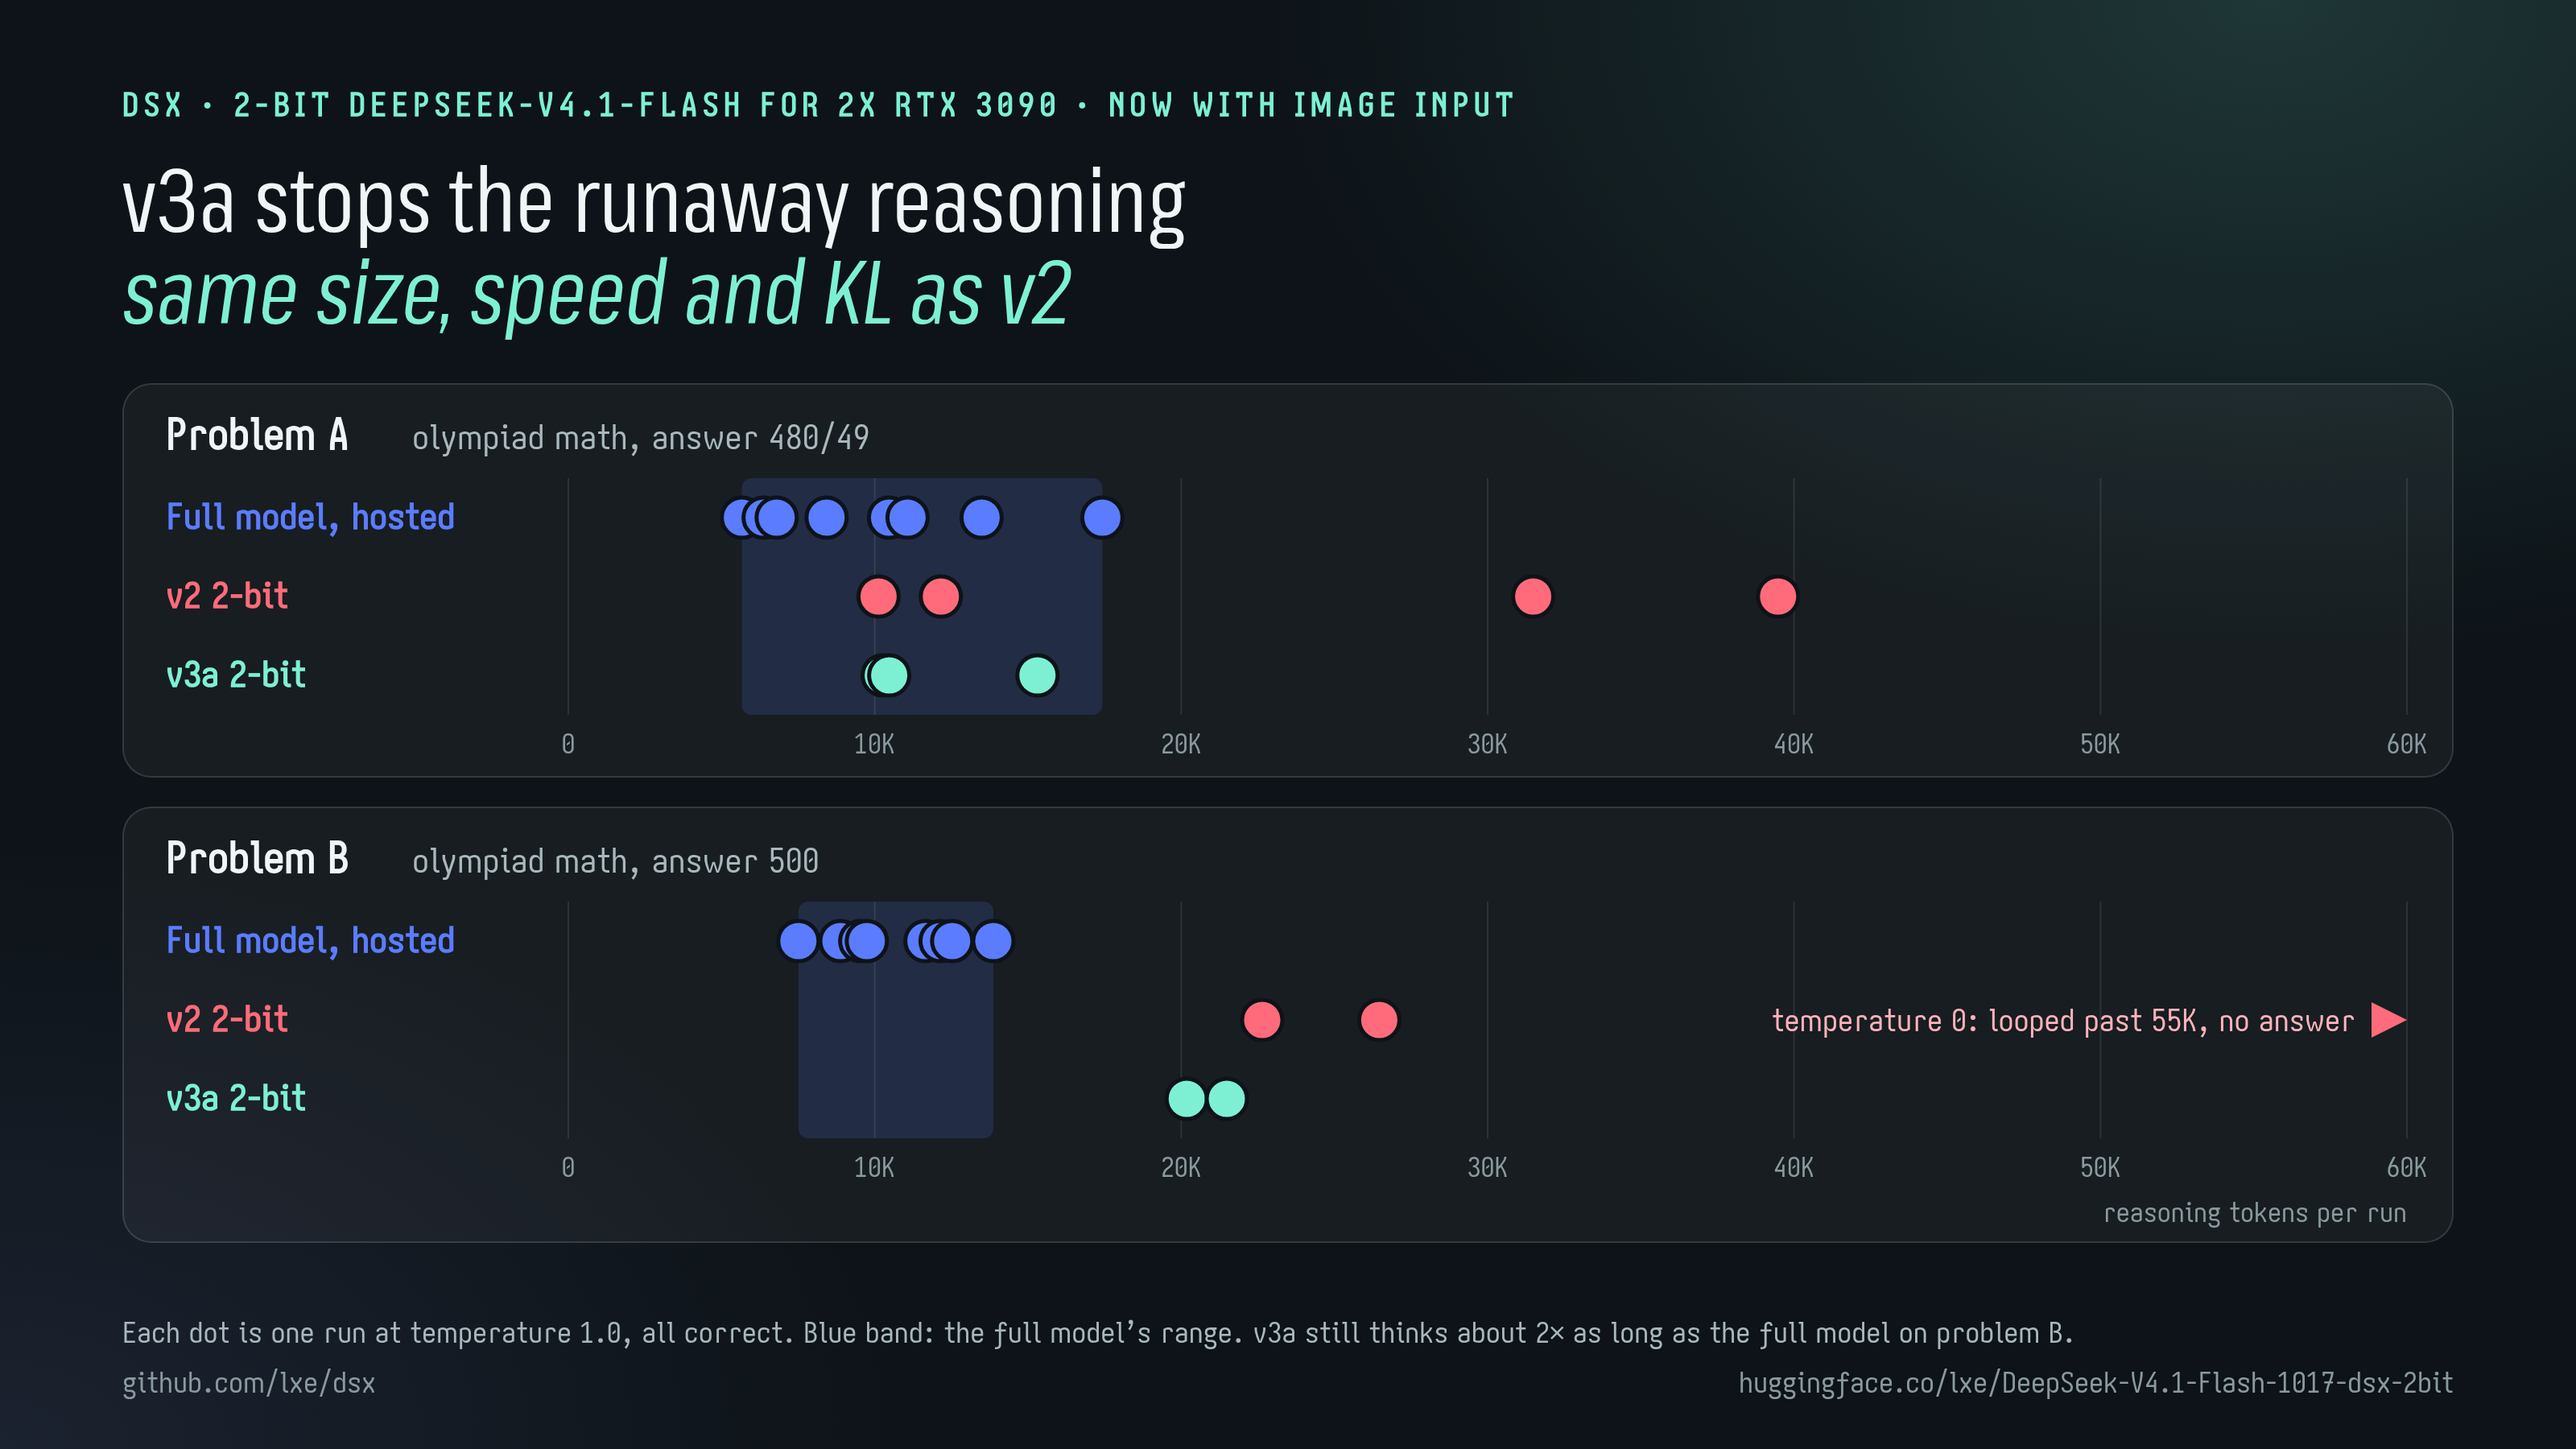
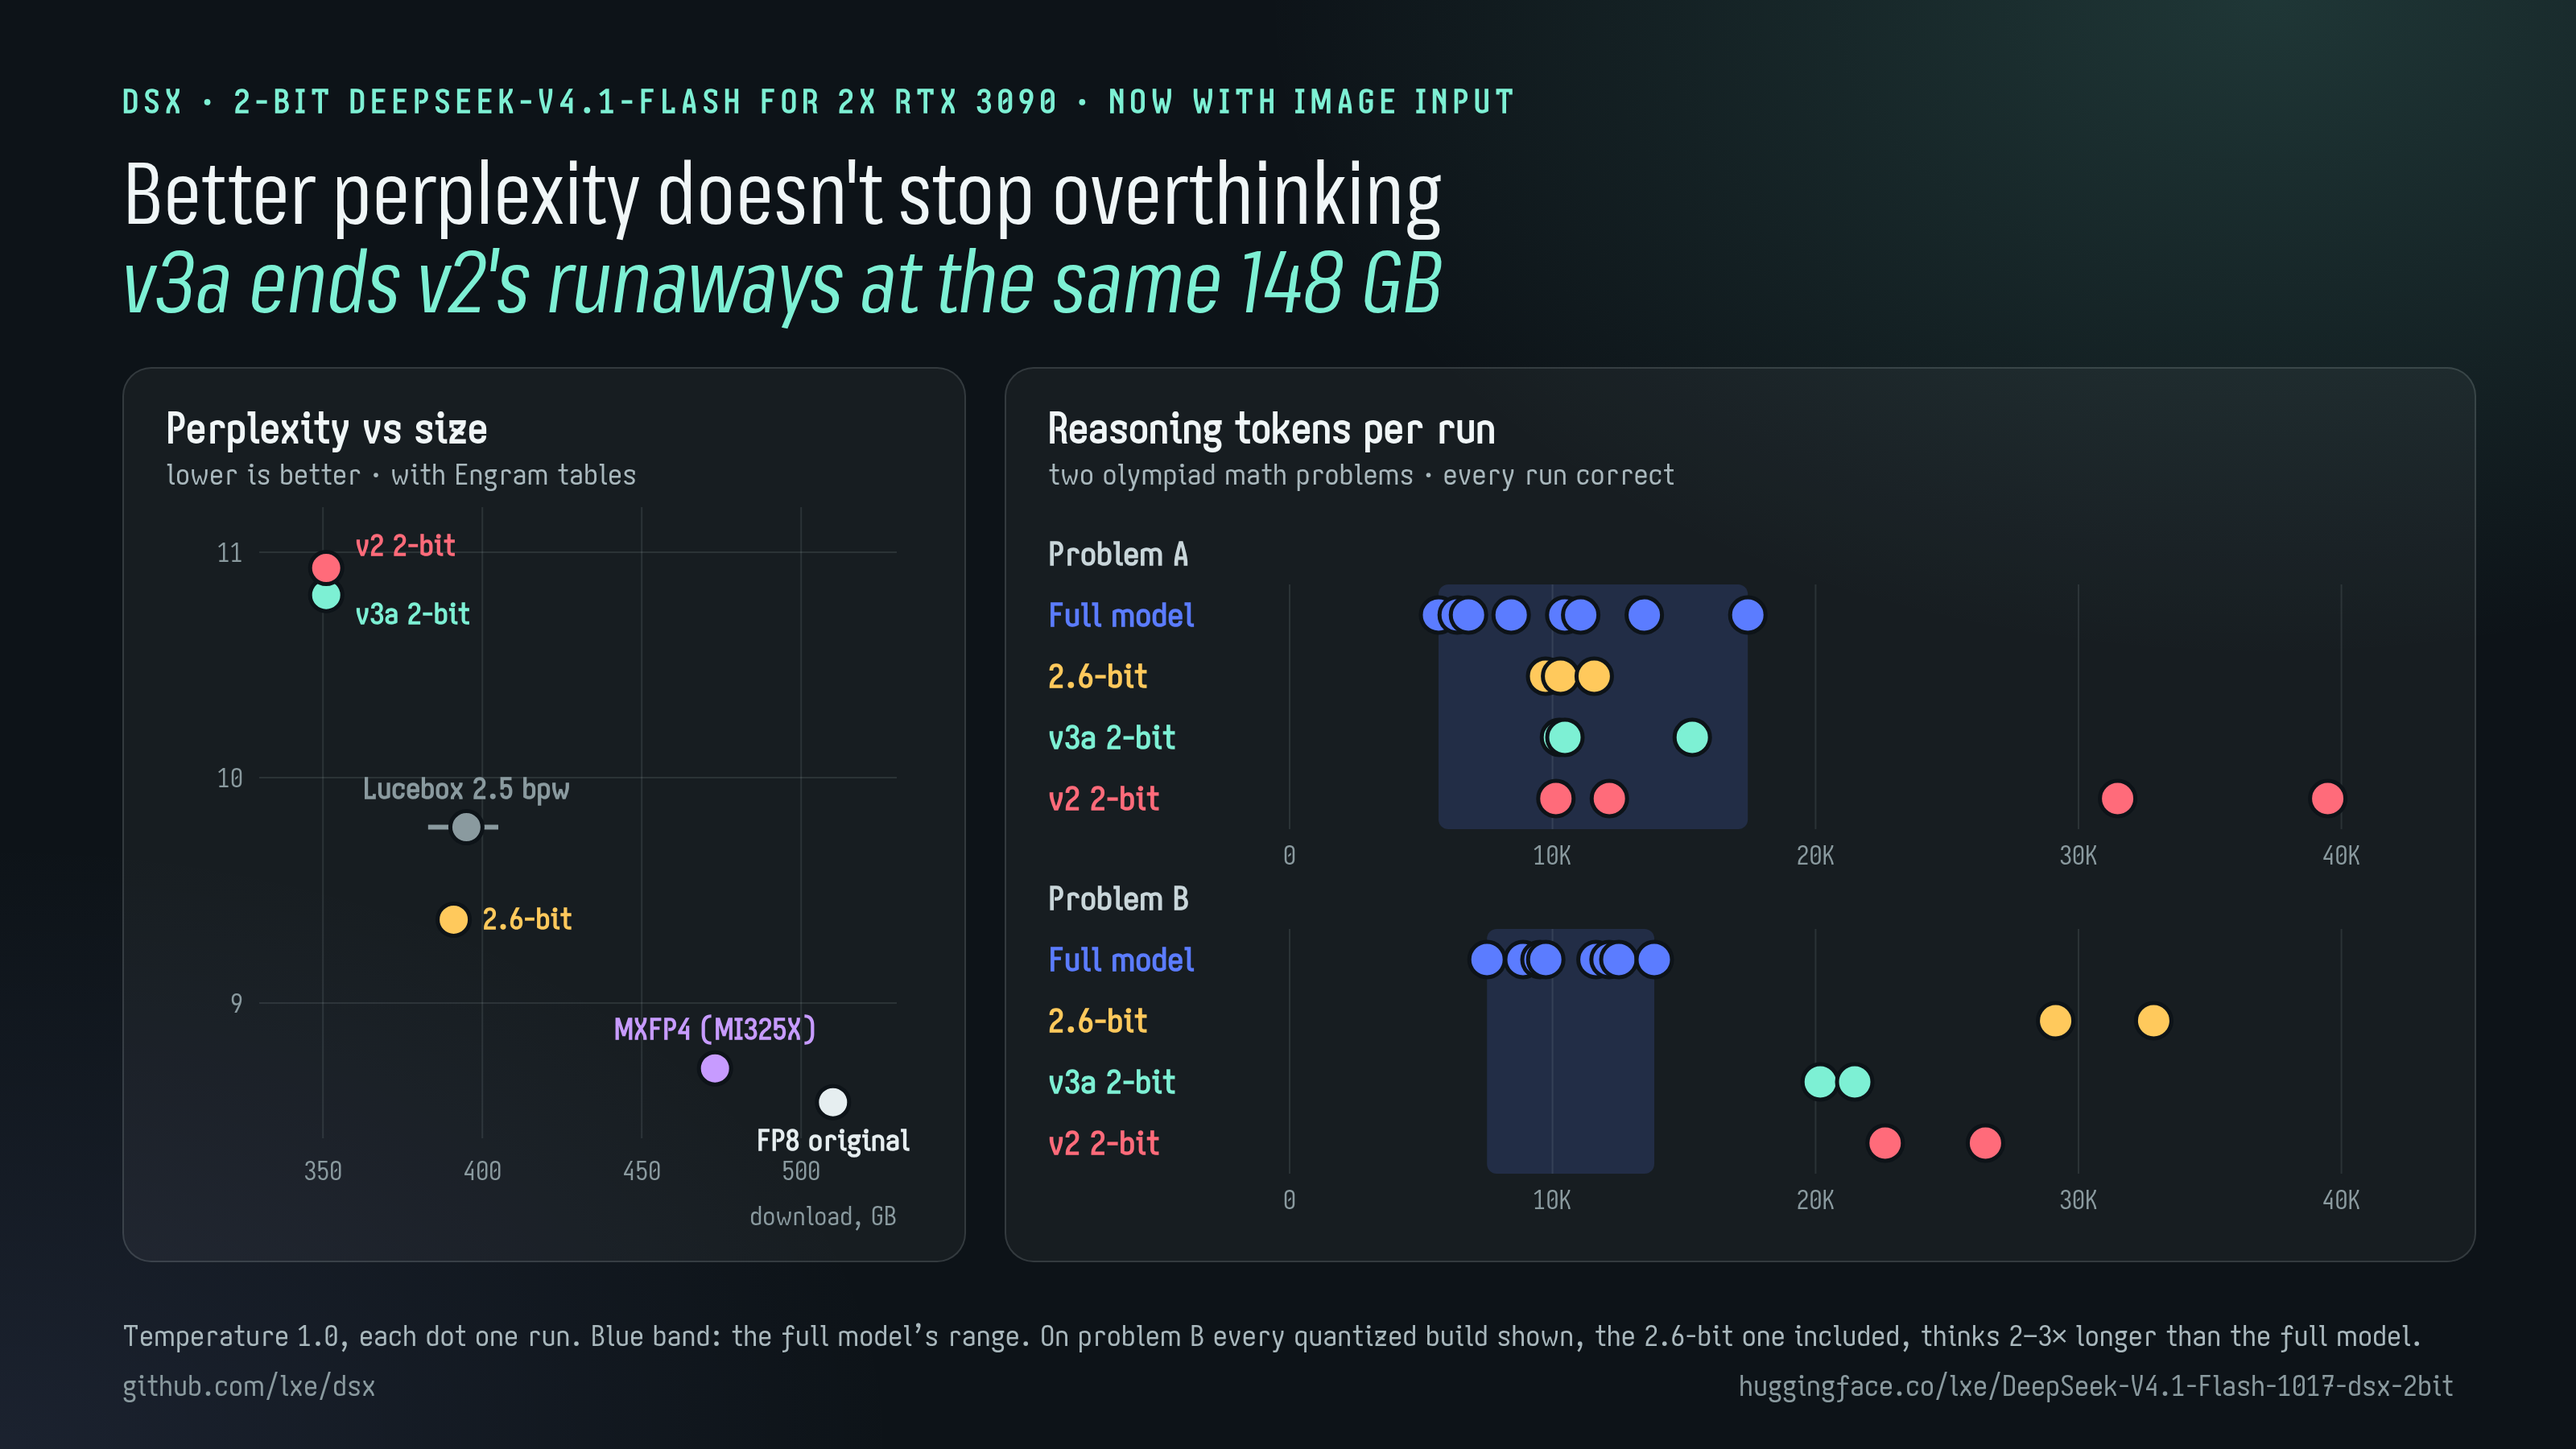
post-overthink.png: perplexity vs size next to reasoning tokens per run (temperature 1.0)
Claude-Session: https://claude.ai/code/session_01GzuuXMp3vNErKy1LhAJ84w

diff --git a/cards/dsx-2bit/assets/make_charts.py b/cards/dsx-2bit/assets/make_charts.py
@@ -269,63 +269,86 @@ h1{font-size:54px;margin-top:14px}
 <div class=r><span>github.com/lxe/dsx</span><span>huggingface.co/lxe/DeepSeek-V4.1-Flash-1017-dsx-2bit</span></div></div>
 </div>"""
 
-OVERTHINK = {  # reasoning tokens per run, temperature 1.0 unless noted; every run correct unless noted
-    "builds": [("hosted", "Full model, hosted", "#5b7cff"), ("v2", "v2 2-bit", "#ff6b7a"), ("v3a", "v3a 2-bit", "#7df0d4")],
+OVERTHINK = {  # reasoning tokens per run at temperature 1.0 (the model's recommended sampling); every run correct
+    "builds": [  # key, label, colour
+        ("hosted", "Full model", "#5b7cff"), ("b26", "2.6-bit", "#ffc95c"),
+        ("v3a", "v3a 2-bit", "#7df0d4"), ("v2", "v2 2-bit", "#ff6b7a")],
     "problems": [
-        ("Problem A", "olympiad math, answer 480/49", {
-            "hosted": [17426, 11069, 10465, 6371, 6799, 5665, 8426, 13485],
-            "v2": [10126, 39479, 12159, 31487], "v3a": [10469, 10263, 15311]}, None),
-        ("Problem B", "olympiad math, answer 500", {
-            "hosted": [12523, 7507, 11651, 9523, 8879, 13870, 9741, 12147],
-            "v2": [26462, 22645], "v3a": [21489, 20180]}, "v2"),  # v2 at temperature 0: looped past 55K, no answer
+        ("Problem A", {"hosted": [17426, 11069, 10465, 6371, 6799, 5665, 8426, 13485], "b26": [9735, 10302, 11585],
+                       "v3a": [10469, 10263, 15311], "v2": [10126, 39479, 12159, 31487]}),
+        ("Problem B", {"hosted": [12523, 7507, 11651, 9523, 8879, 13870, 9741, 12147], "b26": [29133, 32858],
+                       "v3a": [21489, 20180], "v2": [26462, 22645]}),
     ],
-    "xmax": 60000,
+    "xmax": 42000,
+    # perplexity vs download size, Lucebox 1017 eval; sizes include the 203 GB Engram tables
+    "ppl": [  # label, GB, GB range or None, perplexity, colour, label offset (dx, dy, anchor)
+        ("FP8 original", 510, None, 8.56, "#e6eef0", (0, 30, "middle")),
+        ("MXFP4 (MI325X)", 473, None, 8.71, "#c79bff", (0, -18, "middle")),
+        ("Lucebox 2.5 bpw", 395, (383, 405), 9.78, "#8a9a9f", (0, -18, "middle")),
+        ("2.6-bit", 391, None, 9.37, "#ffc95c", (18, 6, "start")),
+        ("v3a 2-bit", 351, None, 10.81, "#7df0d4", (18, 18, "start")),
+        ("v2 2-bit", 351, None, 10.93, "#ff6b7a", (18, -8, "start")),
+    ],
 }
 
 def post_overthink():
-    """16:9 social card: reasoning tokens per run, v2 vs v3a vs the hosted full model, on two hard math problems."""
-    W, L, R, rowh = 1448, 250, 56, 49
+    """16:9 social card: perplexity vs size beside reasoning tokens per run on two hard math problems."""
+    # left: perplexity against size
+    PW, PH = 470, 520
+    X0, X1, Y0, Y1 = 58, PW - 16, PH - 64, 64
+    xl, xh, yl, yh = 330, 530, 8.4, 11.2
+    px = lambda v: X0 + (v - xl) / (xh - xl) * (X1 - X0)
+    py = lambda v: Y0 - (v - yl) / (yh - yl) * (Y0 - Y1)
+    s = ['<text x="0" y="24" class="pt">Perplexity vs size</text>', '<text x="0" y="50" class="ps">lower is better · with Engram tables</text>']
+    for g in range(350, 531, 50):
+        s.append(f'<line x1="{px(g):.1f}" x2="{px(g):.1f}" y1="{Y1}" y2="{Y0}" stroke="rgba(228,241,244,.10)"/><text x="{px(g):.1f}" y="{Y0 + 26}" class="ax" text-anchor="middle">{g}</text>')
+    for g in (9, 10, 11):
+        s.append(f'<line x1="{X0}" x2="{X1}" y1="{py(g):.1f}" y2="{py(g):.1f}" stroke="rgba(228,241,244,.10)"/><text x="{X0 - 10}" y="{py(g) + 6}" class="ax" text-anchor="end">{g}</text>')
+    s.append(f'<text x="{X1}" y="{Y0 + 54}" class="ax" text-anchor="end">download, GB</text>')
+    for name, gb, rng, ppl, col, (dx, dy, an) in OVERTHINK["ppl"]:
+        if rng: s.append(f'<line x1="{px(rng[0]):.1f}" x2="{px(rng[1]):.1f}" y1="{py(ppl):.1f}" y2="{py(ppl):.1f}" stroke="{col}" stroke-width="3"/>')
+        s.append(f'<circle cx="{px(gb):.1f}" cy="{py(ppl):.1f}" r="10" fill="{col}" stroke="#0d1318" stroke-width="2.5"/>')
+        s.append(f'<text x="{px(gb) + dx:.1f}" y="{py(ppl) + dy:.1f}" class="dl" text-anchor="{an}" style="fill:{col}">{name}</text>')
+    left = f'<div class="panel pl"><svg width="{PW}" height="{PH}">{"".join(s)}</svg></div>'
+    # right: reasoning tokens per run
+    W, L, R, rowh = 860, 150, 24, 38
     xmax = OVERTHINK["xmax"]; builds = OVERTHINK["builds"]
     x = lambda v: L + min(v, xmax) / xmax * (W - L - R)
-    panels = ""
-    for name, sub, runs, loop in OVERTHINK["problems"]:
-        H = 40 + rowh * len(builds) + (56 if name == OVERTHINK["problems"][-1][0] else 30)
-        top = 40
-        s = [f'<text x="0" y="22" class="pt">{name}</text><text x="{len(name) * 15 + 18}" y="22" class="ps">{sub}</text>']
+    s = ['<text x="0" y="24" class="pt">Reasoning tokens per run</text>', '<text x="0" y="50" class="ps">two olympiad math problems · every run correct</text>']
+    top = 96
+    for pi, (name, runs) in enumerate(OVERTHINK["problems"]):
+        blk = top + pi * (rowh * len(builds) + 62)
+        s.append(f'<text x="0" y="{blk + 4}" class="pn">{name}</text>')
+        y0 = blk + 16
         lo, hi = min(runs["hosted"]), max(runs["hosted"])
-        s.append(f'<rect x="{x(lo):.1f}" y="{top}" width="{x(hi) - x(lo):.1f}" height="{rowh * len(builds)}" rx="6" fill="rgba(91,124,255,.16)"/>')
+        s.append(f'<rect x="{x(lo):.1f}" y="{y0}" width="{x(hi) - x(lo):.1f}" height="{rowh * len(builds)}" rx="6" fill="rgba(91,124,255,.17)"/>')
         for t in range(0, xmax + 1, 10000):
-            s.append(f'<line x1="{x(t):.1f}" x2="{x(t):.1f}" y1="{top}" y2="{top + rowh * len(builds)}" stroke="rgba(228,241,244,.10)"/>')
-            s.append(f'<text x="{x(t):.1f}" y="{top + rowh * len(builds) + 24}" class="ax" text-anchor="middle">{"0" if t == 0 else f"{t // 1000}K"}</text>')
+            s.append(f'<line x1="{x(t):.1f}" x2="{x(t):.1f}" y1="{y0}" y2="{y0 + rowh * len(builds)}" stroke="rgba(228,241,244,.10)"/>')
+            s.append(f'<text x="{x(t):.1f}" y="{y0 + rowh * len(builds) + 22}" class="ax" text-anchor="middle">{"0" if t == 0 else f"{t // 1000}K"}</text>')
         for i, (k, label, col) in enumerate(builds):
-            cy = top + rowh * i + rowh / 2
+            cy = y0 + rowh * i + rowh / 2
             s.append(f'<text x="0" y="{cy + 7}" class="rl" style="fill:{col}">{label}</text>')
-            for j, v in enumerate(sorted(runs[k])):
-                s.append(f'<circle cx="{x(v):.1f}" cy="{cy}" r="12.5" fill="{col}" stroke="#0d1318" stroke-width="2.5"/>')
-            if loop == k:
-                ax = x(xmax)
-                s.append(f'<path d="M {ax - 22} {cy - 11} L {ax} {cy} L {ax - 22} {cy + 11} Z" fill="{col}"/>')
-                s.append(f'<text x="{ax - 32}" y="{cy + 7}" class="lp" text-anchor="end">temperature 0: looped past 55K, no answer</text>')
-        if name == OVERTHINK["problems"][-1][0]:
-            s.append(f'<text x="{W - R}" y="{top + rowh * len(builds) + 52}" class="ax" text-anchor="end">reasoning tokens per run</text>')
-        panels += f'<div class=panel><svg width="{W}" height="{H}">{"".join(s)}</svg></div>'
+            for v in sorted(runs[k]):
+                s.append(f'<circle cx="{x(v):.1f}" cy="{cy}" r="11" fill="{col}" stroke="#0d1318" stroke-width="2.5"/>')
+    H = top + 2 * (rowh * len(builds) + 62) - 22
+    right = f'<div class="panel pr"><svg width="{W}" height="{H}">{"".join(s)}</svg></div>'
     css = BRAND_CSS + """
-.card{padding-top:52px}
-h1{font-size:56px;margin-top:14px}
-.panels{margin-top:30px;display:flex;flex-direction:column;gap:18px}
-.panel{background:rgba(255,255,255,.045);border:1px solid rgba(228,241,244,.14);border-radius:18px;padding:18px 26px 8px}
+.card{padding-top:50px}
+h1{font-size:54px;margin-top:12px}
+.panels{margin-top:28px;display:grid;grid-template-columns:auto 1fr;gap:24px;align-items:stretch}
+.panel{background:rgba(255,255,255,.045);border:1px solid rgba(228,241,244,.14);border-radius:18px;padding:22px 26px 12px}
 svg{display:block;overflow:visible}
 svg text{font-family:Num,Iosevka,ui-monospace,Menlo,monospace;fill:#f0f6f7}
-.pt{font-size:26px;font-weight:700} .ps{font-size:21px;fill:#a9b8bd} .rl{font-size:22px;font-weight:700}
-.ax{font-size:17px;fill:#8a9a9f} .lp{font-size:19px;fill:#ffb3bc}
-.foot{flex-direction:column;gap:6px;bottom:28px;font-size:18px}
+.pt{font-size:25px;font-weight:700} .ps{font-size:18px;fill:#a9b8bd} .pn{font-size:20px;font-weight:700;fill:#c9d6da}
+.rl{font-size:20px;font-weight:700} .dl{font-size:18px;font-weight:700} .ax{font-size:16px;fill:#8a9a9f}
+.foot{flex-direction:column;gap:6px;bottom:26px;font-size:18px}
 .foot .r{display:flex;justify-content:space-between} .foot .note{color:#a9b8bd}
 """
     return f"""<!doctype html><meta charset=utf-8><style>{css}</style><div class=card>
 <div class=eyebrow>dsx · 2-bit DeepSeek-V4.1-Flash for 2x RTX 3090 · now with image input</div>
-<h1>v3a stops the runaway reasoning<br><em>same size, speed and KL as v2</em></h1>
-<div class=panels>{panels}</div>
-<div class=foot><div class=note>Each dot is one run at temperature 1.0, all correct. Blue band: the full model's range. v3a still thinks about 2× as long as the full model on problem B.</div>
+<h1>Better perplexity doesn't stop overthinking<br><em>v3a ends v2's runaways at the same 148 GB</em></h1>
+<div class=panels>{left}{right}</div>
+<div class=foot><div class=note>Temperature 1.0, each dot one run. Blue band: the full model's range. On problem B every quantized build shown, the 2.6-bit one included, thinks 2–3× longer than the full model.</div>
 <div class=r><span>github.com/lxe/dsx</span><span>huggingface.co/lxe/DeepSeek-V4.1-Flash-1017-dsx-2bit</span></div></div>
 </div>"""
 
